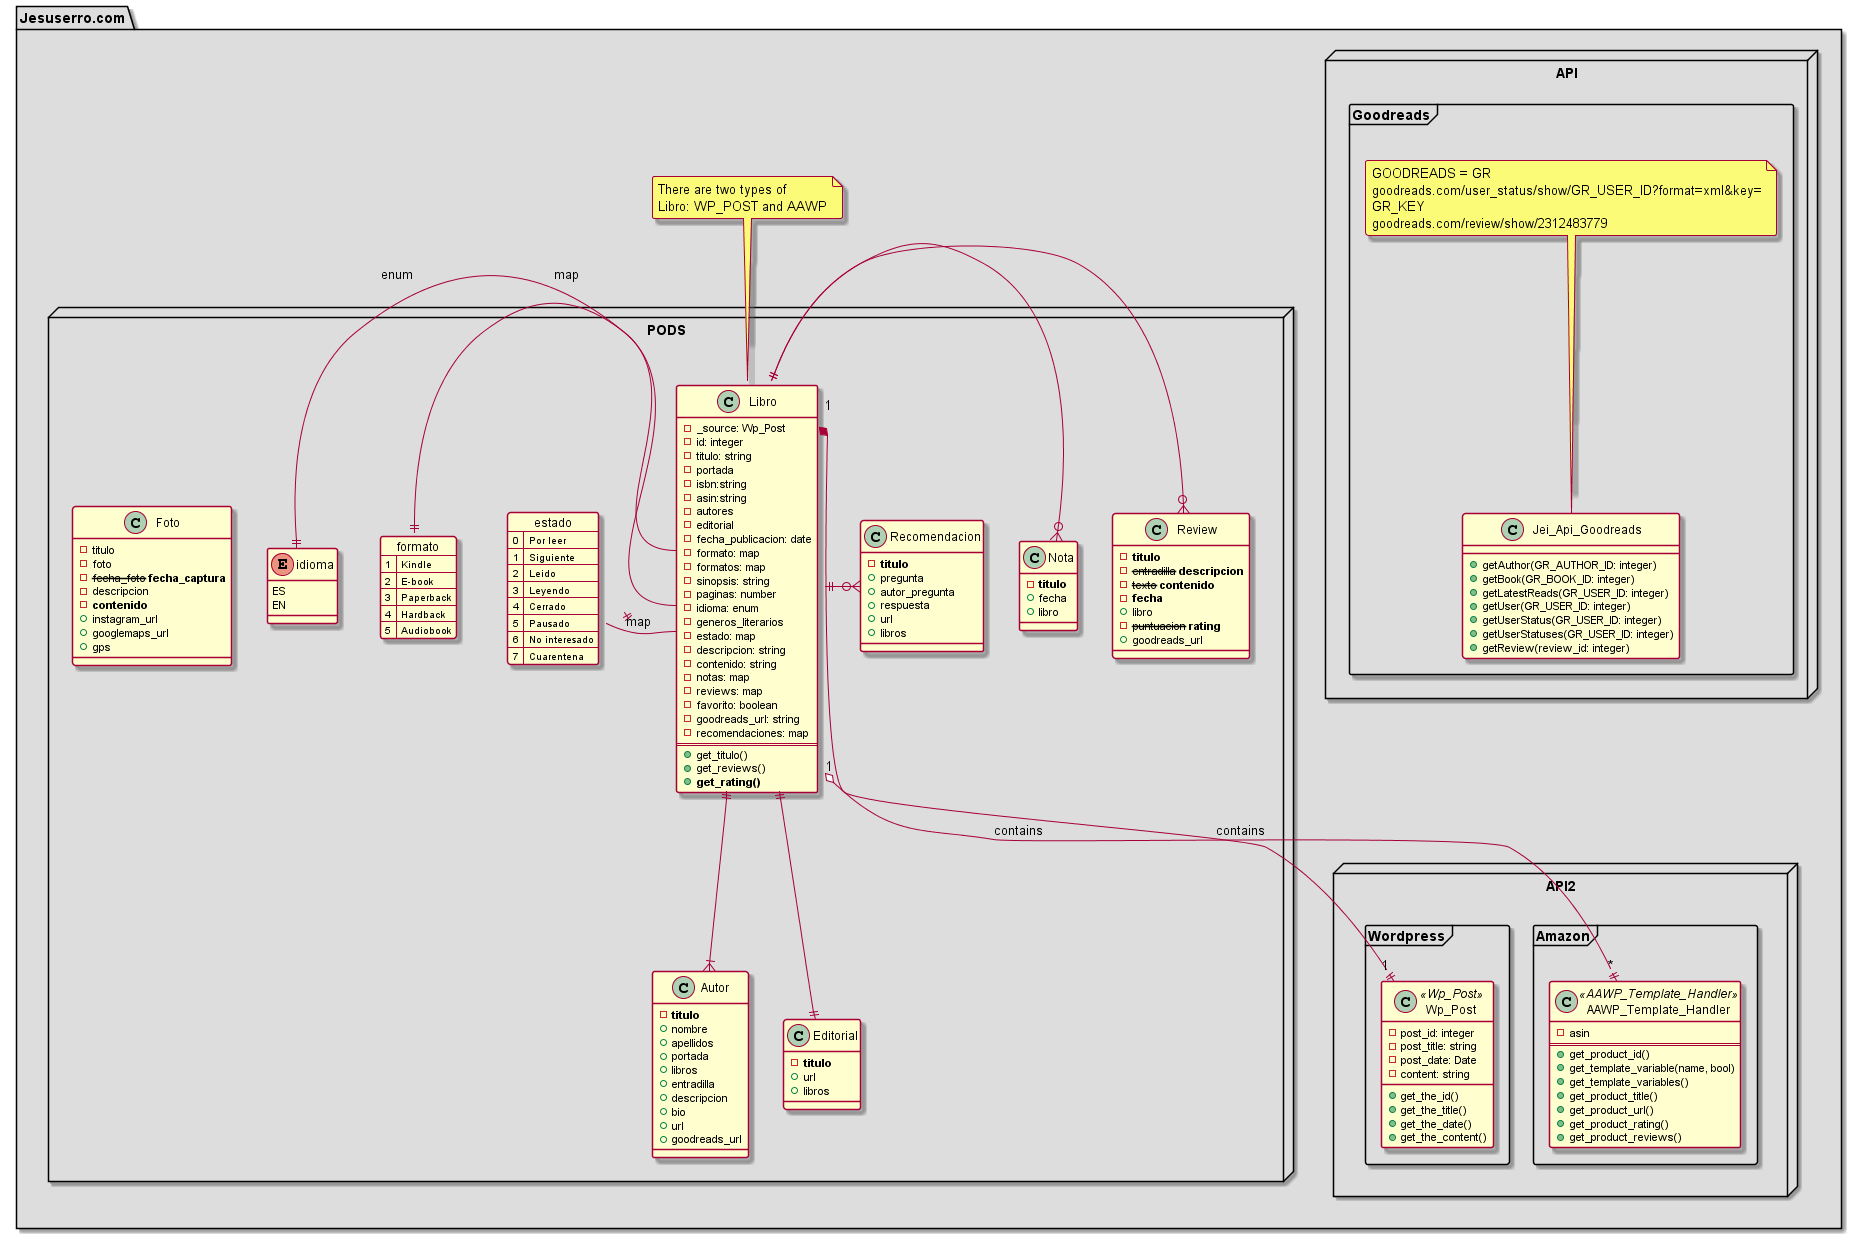
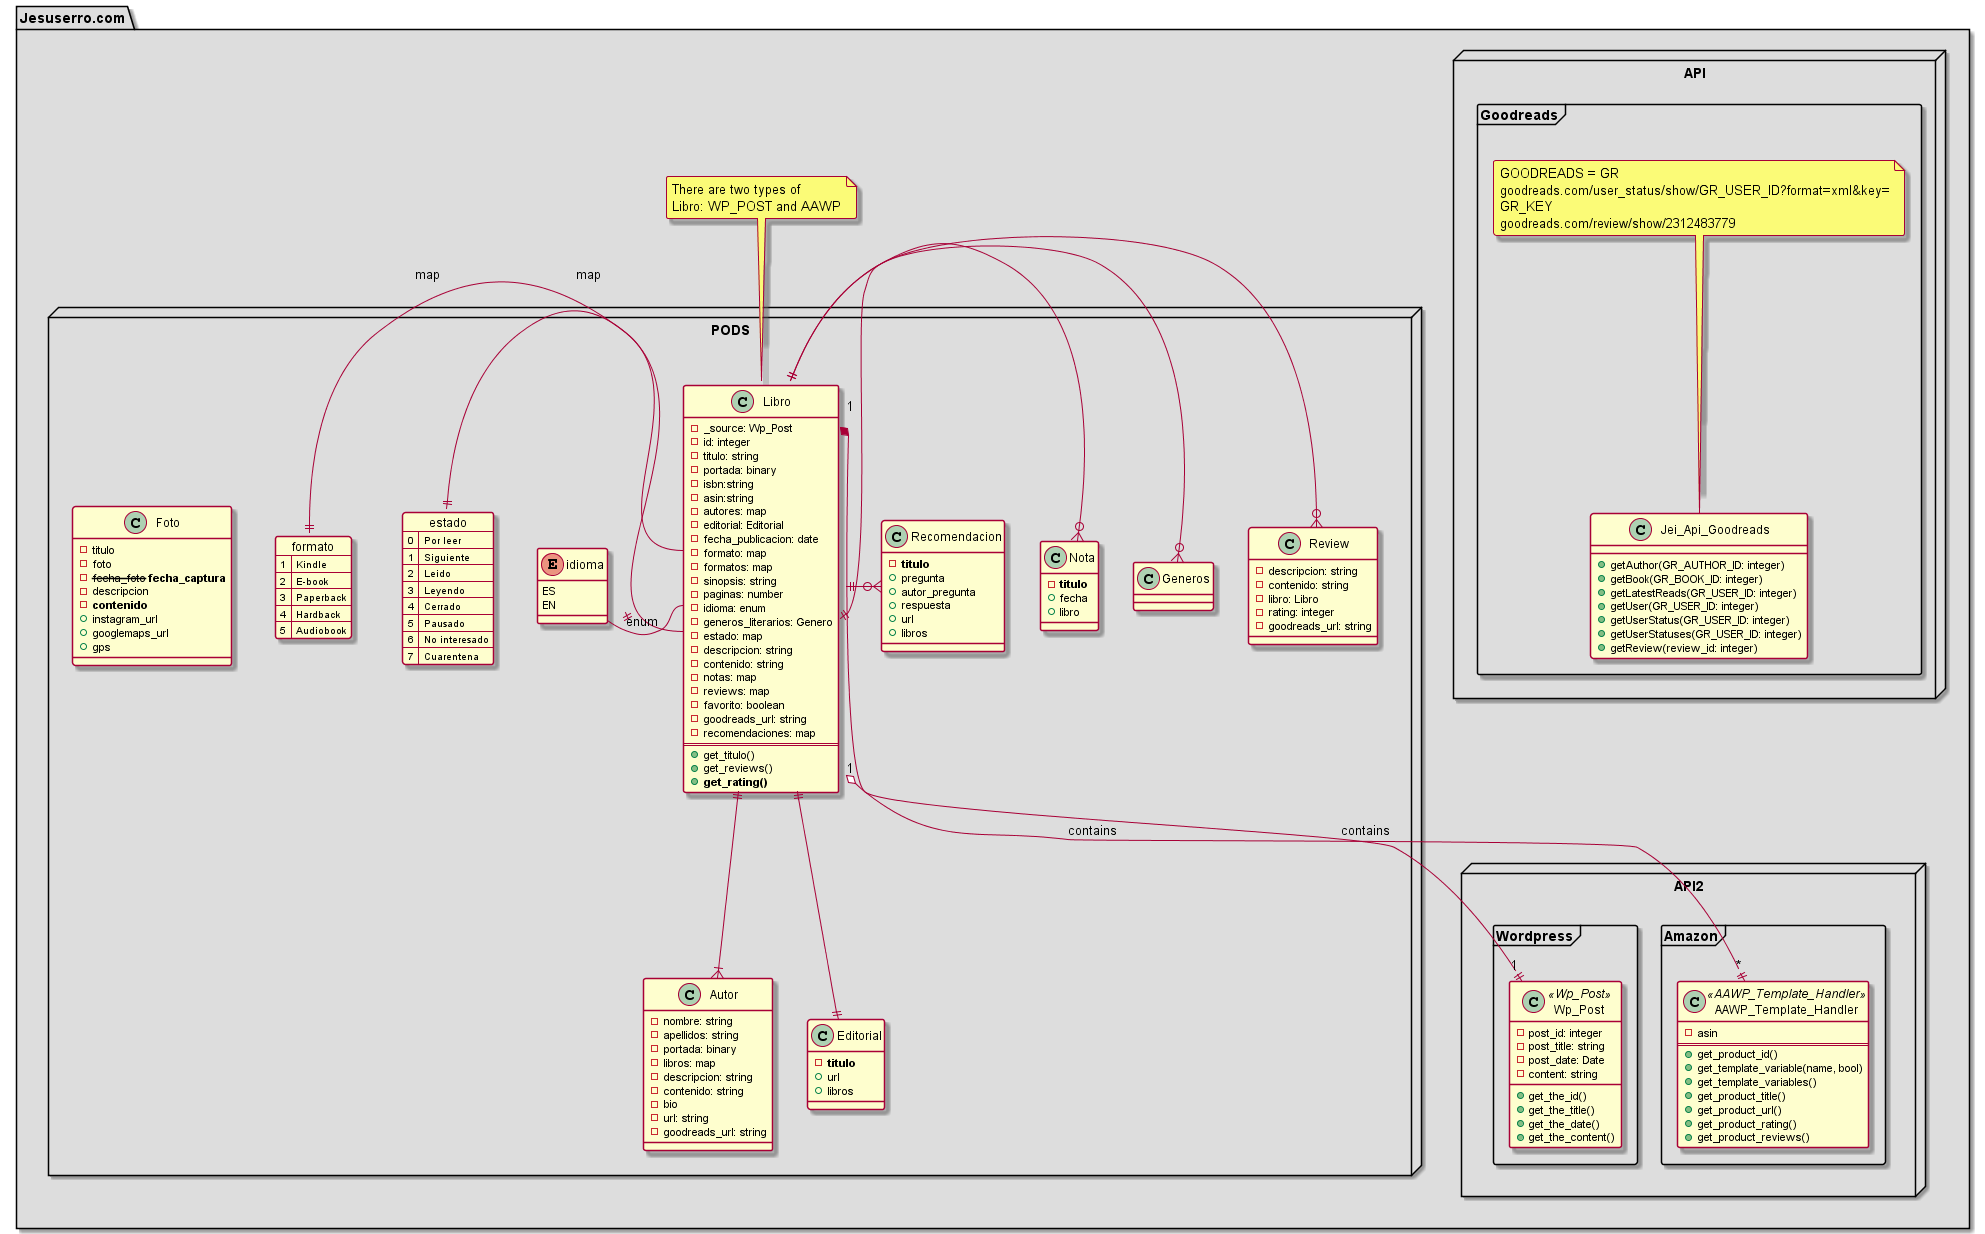
fix(Géneros literarios): Re-added Generos POD

Changed region(s): [[0.0, 0.0308, 0.9995, 0.9854], [0.0, 0.0, 0.0937, 0.0308], [0.2811, 0.2156, 0.3123, 0.2771]]

diff --git a/wp-content/themes/twentyeleven-child/page-content/home.php b/wp-content/themes/twentyeleven-child/page-content/home.php
@@ -10,16 +10,18 @@ $urlBase = get_site_url();
 
 <?php 
 $args = array(
-    'taxonomy' => 'generos',
+    'taxonomy' => 'genero',
     'hide_empty' => false
 );
 $terms = get_terms($args);
-echo view('../partials/searchform-complete', array(
-    'this2' => (object)[
-        'terms' => $terms,
-        'placeholder' => 'Busca tu libro por temática, título, autor, ...'
-    ])
-);
+if($terms){
+    echo view('../partials/searchform-complete', array(
+        'this2' => (object)[
+            'terms' => $terms,
+            'placeholder' => 'Busca tu libro por temática, título, autor, ...'
+        ])
+    );
+}
 ?>
 
 <hr />
